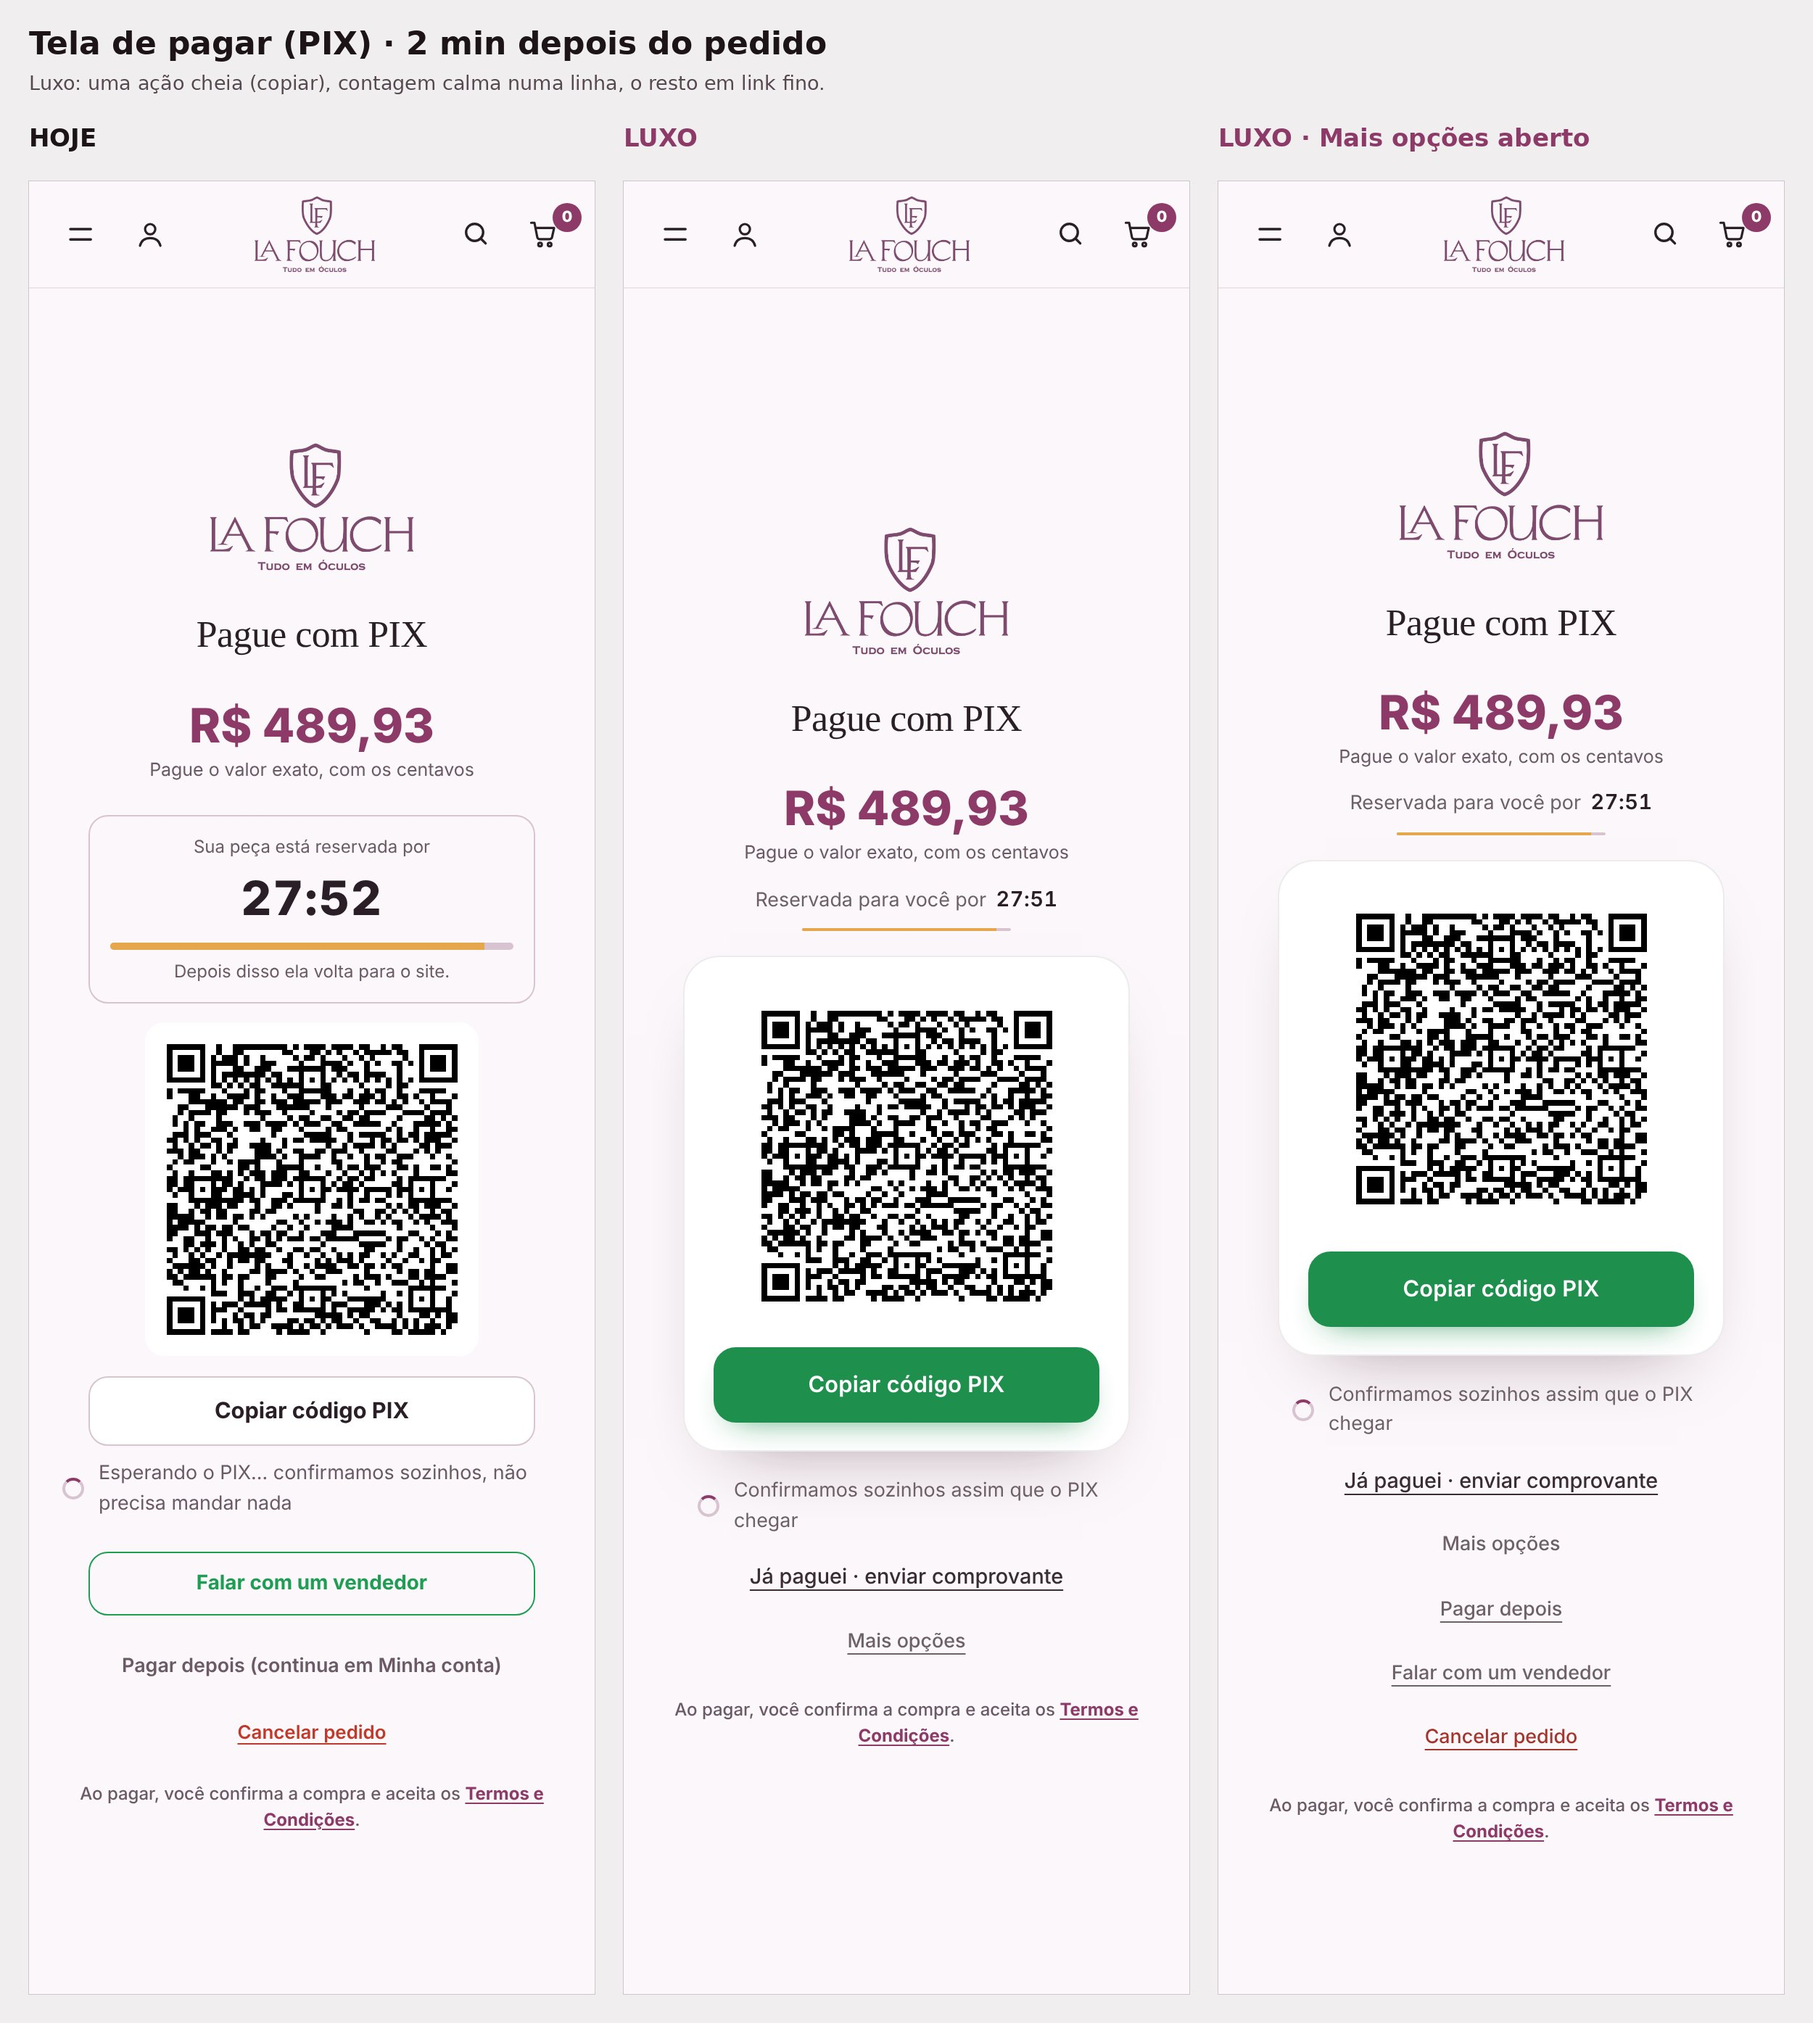
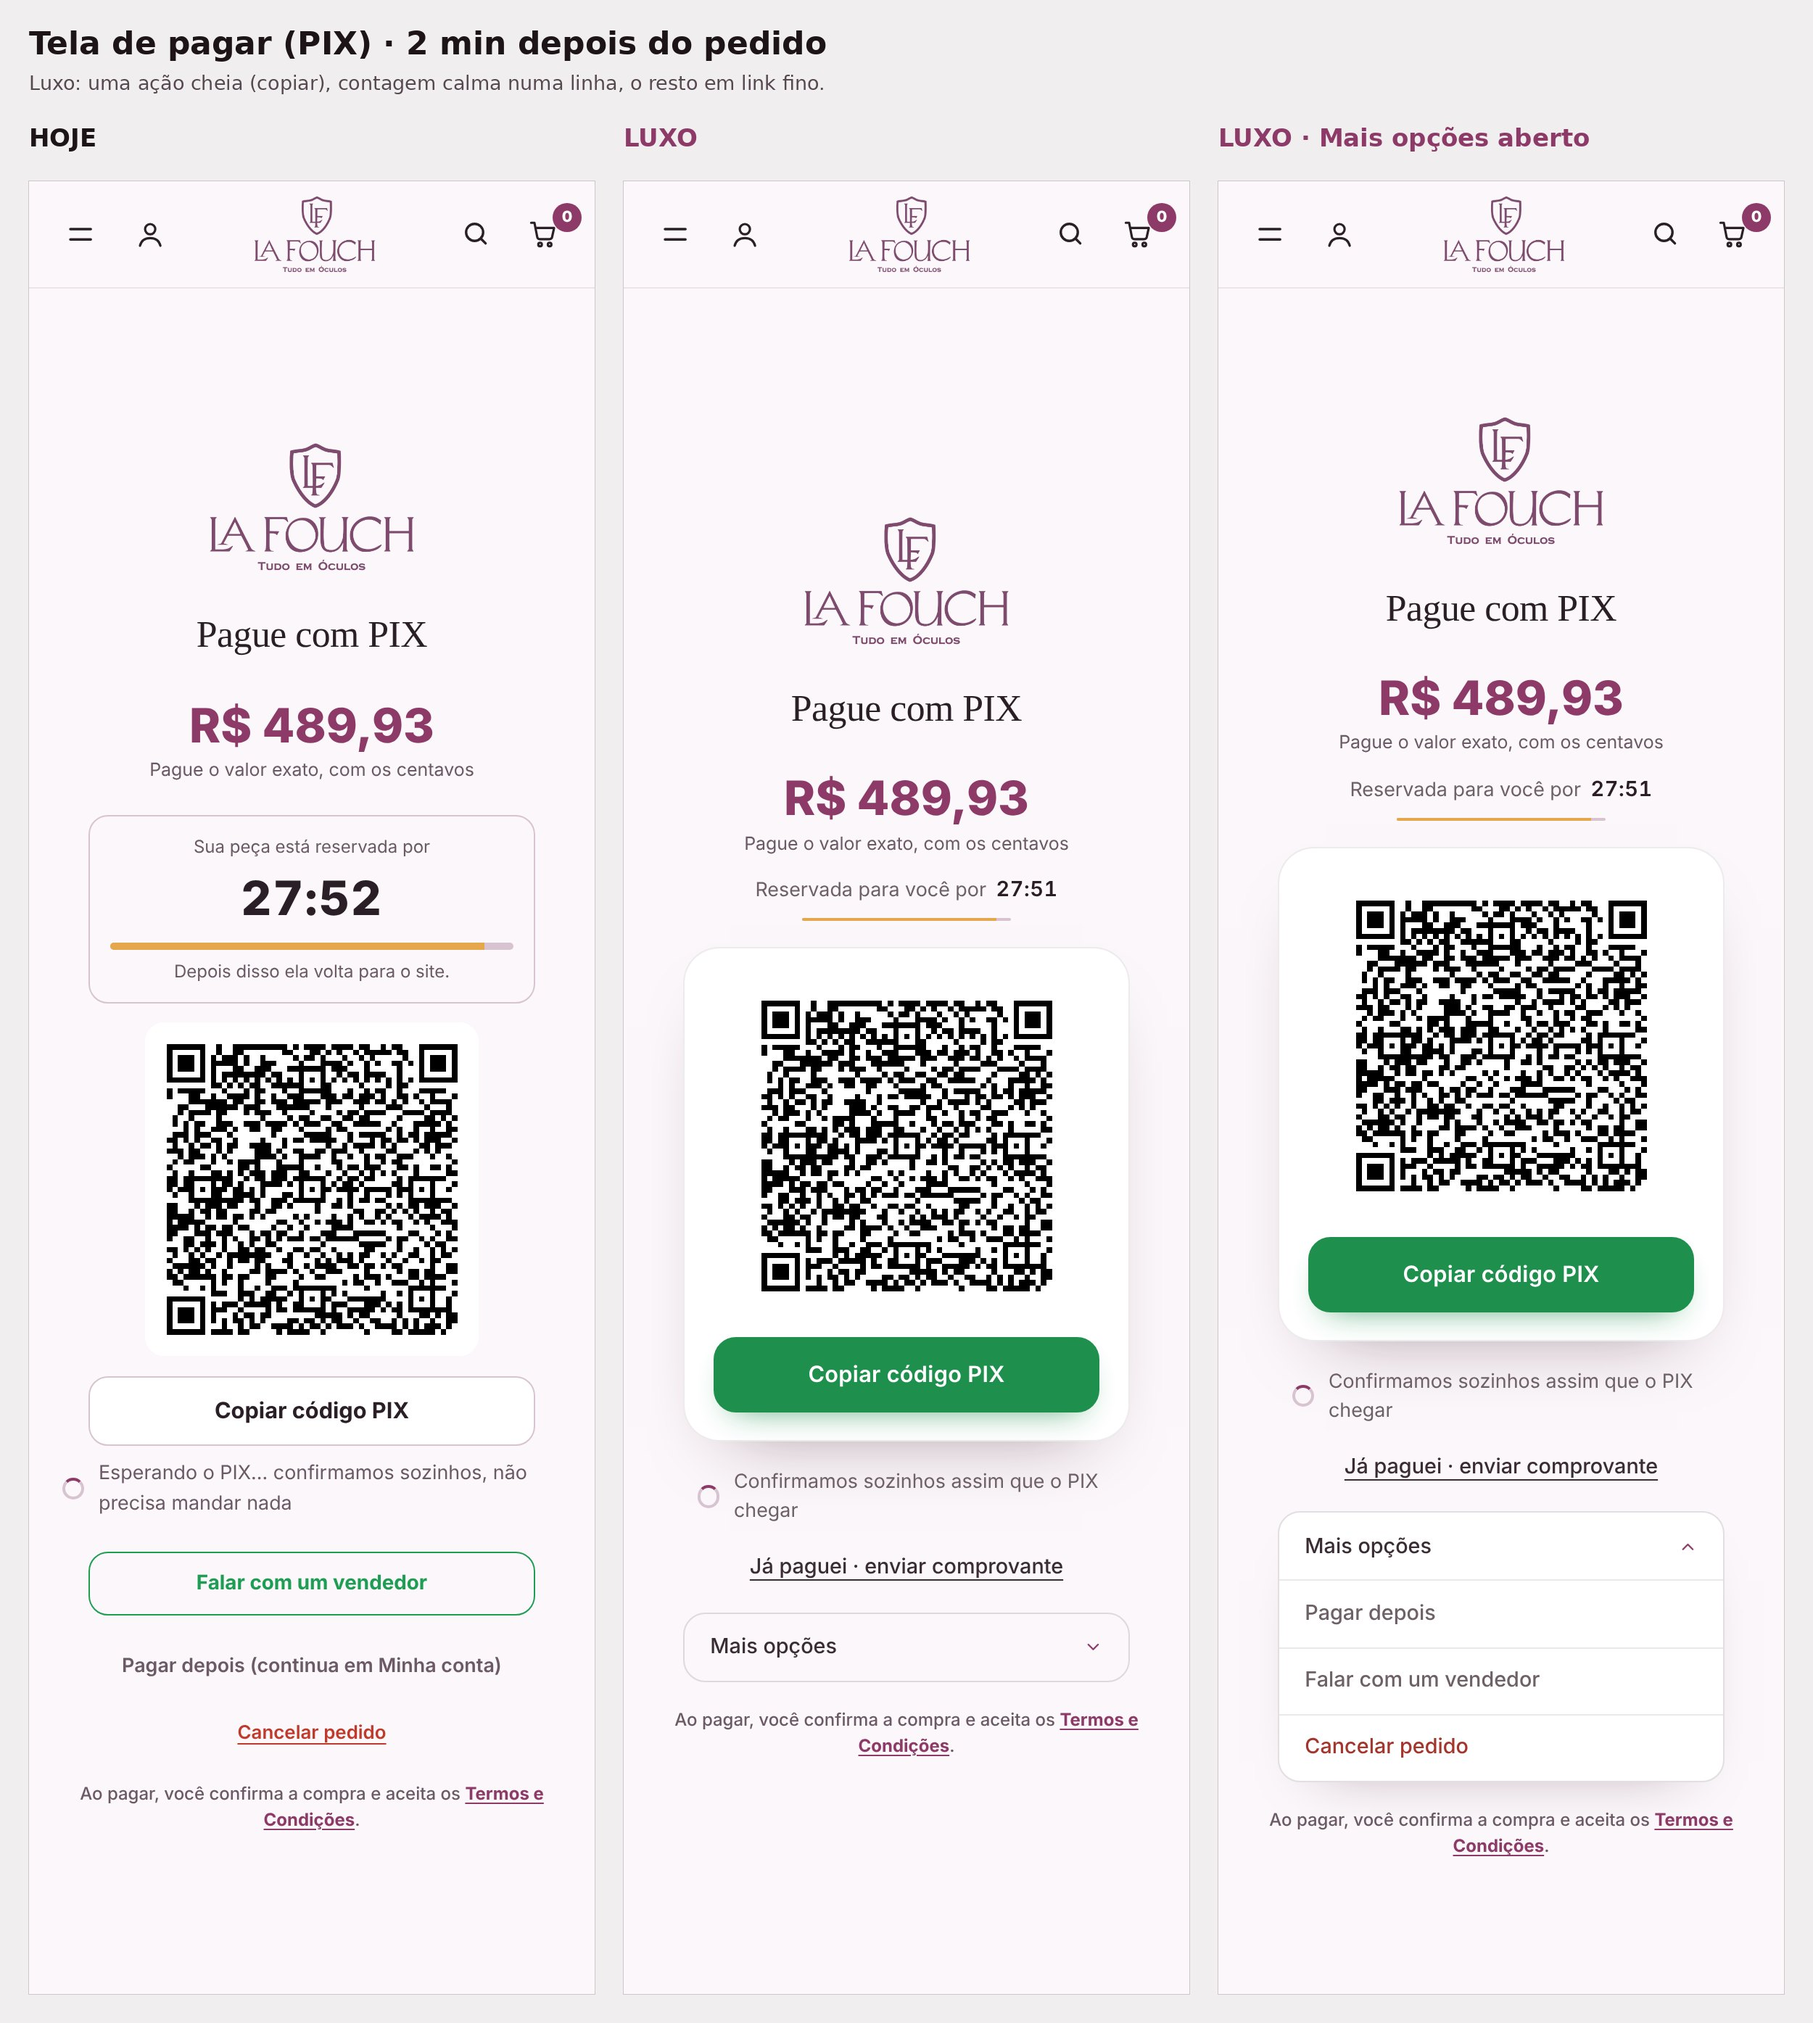
S309b: Mais opções como linha que expande (esboço de luxo)
Claude-Session: https://claude.ai/code/session_01Vj5GPR2QjandaFr6ascRKC

diff --git a/work/s308/luxo.js b/work/s308/luxo.js
@@ -11,6 +11,9 @@
     '#pkok #cdx.lx{border:0!important;background:none!important;box-shadow:none!important;padding:0!important;margin:2px auto 18px!important;display:flex;flex-wrap:wrap;align-items:baseline;justify-content:center;gap:0 7px}#pkok #cdx.lx small{font-size:14px;color:#6e6067;margin:0}#pkok #cdx.lx small:last-child{display:none}#pkok #cdx.lx b,#pkok #cdx.lx #cdxt{font-family:inherit!important;font-weight:600!important;font-size:15px!important;line-height:1.2!important;margin:0!important;letter-spacing:.02em;color:#2a1d24;font-variant-numeric:tabular-nums}#pkok #cdx.lx i{flex:0 0 100%;height:2px!important;margin:10px auto 0!important;max-width:150px;border-radius:2px}' +
     // cartão branco com o QR e a ação
     '#pkok .lxC{flex:0 0 auto;align-self:center;box-sizing:border-box;background:#fff;border:1px solid rgba(60,30,45,.09);border-radius:26px;padding:20px 20px 20px;box-shadow:0 24px 50px -34px rgba(70,25,50,.5);display:flex;flex-direction:column;align-items:center;gap:16px}#pkok .lxC .pgq{margin:0!important;box-shadow:none!important;padding:0!important;border:0!important}' +
+    '#pkok .lxX{flex:0 0 auto;align-self:center;box-sizing:border-box;margin:10px auto 0;border:1px solid rgba(60,30,45,.14);border-radius:16px;overflow:hidden;background:transparent}#pkok .lxX.ab{background:#fff;box-shadow:0 18px 40px -32px rgba(70,25,50,.5)}' +
+    '#pkok .lxXh{display:flex!important;align-items:center;justify-content:space-between;width:100%;min-height:48px;margin:0!important;padding:0 18px!important;background:none!important;border:0!important;box-shadow:none!important;color:#3a2c33!important;font-family:inherit;font-weight:500!important;font-size:15px!important;text-decoration:none!important;cursor:pointer;box-sizing:border-box}#pkok .lxXh svg{color:#8d3a69;flex:0 0 auto}' +
+    '#pkok .lxXi{display:flex!important;align-items:center;justify-content:flex-start;width:100%;min-height:48px;margin:0!important;padding:0 18px!important;background:none!important;border:0!important;border-top:1px solid rgba(60,30,45,.1)!important;border-radius:0!important;box-shadow:none!important;color:#6e6067!important;font-family:inherit;font-weight:500!important;font-size:15px!important;text-decoration:none!important;text-align:left;box-sizing:border-box}#pkok .lxXi.r{color:#a3352c!important}' +
     '#pkok .pgau.lx{margin:18px auto 2px!important;justify-content:center;font-size:14px;color:#6e6067;max-width:300px}';
   document.head.appendChild(st);
   const cl = o.querySelector('#pgcl');
@@ -22,9 +25,12 @@
     const g = document.createElement('div'); g.className = 'lxG'; au.after(g);
     cl.hidden = false; cl.className = ''; cl.style.cssText = 'margin:0'; cl.innerHTML = '<label for="pgf" class="lxL">Já paguei · enviar comprovante</label>'; g.append(cl);
     const v = o.querySelector('a.vend'), d = o.querySelector('.pgs'), x = o.querySelector('.pgx');
-    const m = document.createElement('button'); m.type = 'button'; m.className = 'lxL s'; m.textContent = aberto ? 'Mais opções' : 'Mais opções'; if (aberto) m.style.setProperty('text-decoration', 'none', 'important'); g.append(m);
+    // "Mais opções" = linha que expande (seta ⌄ / ⌃); aberta vira um cartão branco com as três opções em linhas
+    const SETA = '<svg width="14" height="14" viewBox="0 0 24 24" fill="none" stroke="currentColor" stroke-width="2" stroke-linecap="round" stroke-linejoin="round" aria-hidden="true"><path d="' + (aberto ? 'M6 15l6-6 6 6' : 'M6 9l6 6 6-6') + '"/></svg>';
+    const cx = document.createElement('div'); cx.className = 'lxX' + (aberto ? ' ab' : ''); cx.style.width = w; g.after(cx);
+    const m = document.createElement('button'); m.type = 'button'; m.className = 'lxXh'; m.setAttribute('aria-expanded', aberto ? 'true' : 'false'); m.innerHTML = '<span>Mais opções</span>' + SETA; cx.append(m);
     d.textContent = 'Pagar depois'; v.textContent = 'Falar com um vendedor';
-    [d, v, x].forEach((e) => { e.className = 'lxL s' + (e === x ? ' r' : ''); e.removeAttribute('style'); if (aberto) g.append(e); else e.remove(); });
+    [d, v, x].forEach((e) => { e.className = 'lxXi' + (e === x ? ' r' : ''); e.removeAttribute('style'); if (aberto) cx.append(e); else e.remove(); });
     return 'pagar';
   }
   const wa = o.querySelector('.pkb a.pkw');

diff --git a/docs/MEMORIA-PROJETO.md b/docs/MEMORIA-PROJETO.md
@@ -2543,3 +2543,4 @@ Decisões do dono sobre a tela Venda confirmada (esboço "venda_confirmada_compr
 - Dono: "considerando que você é o especialista… e tem os designs padrão de luxo, como ficaria?" → work/s308/luxo-1-pagar.jpg, luxo-2-reserva-encerrada.jpg, luxo-3-comprovante-enviado.jpg (ESB=luxo python3 work/s308/esb.py; injeção luxo.js nas telas reais).
 - Decisões minhas no esboço: uma ação CHEIA por tela (verde do checkout) e o resto em link fino; pagar = cartão branco com QR + "Copiar código PIX"; contagem numa linha calma ("Reservada para você por 27:51" + fio); "Já paguei · enviar comprovante" como link (a partir de 1 min); "Mais opções" abre Pagar depois / Falar com um vendedor / Cancelar pedido. Reserva encerrada: a ação cheia é "Reservar de novo" (recupera a venda), "Já paguei" vira link. Comprovante enviado: texto curto e uma saída.
 - olho.js parado e rolado: nenhuma falha nova x hoje. Só celular 390, claro, PT, PIX. NÃO feito: transferência, temáticas, tablet/PC, espanhol. NADA implementado.
+- S309b (14/11 21:40): dono — "só precisa melhorar o Mais opções, não parece uma aba que expande". Refeito: linha com borda + seta ⌄ na largura do cartão; aberta vira cartão branco (seta ⌃) com Pagar depois / Falar com um vendedor / Cancelar pedido em linhas. Resto do esboço de luxo ele aceitou como está. Aguardando o "implementar".
